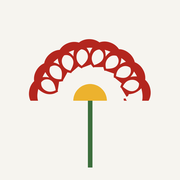
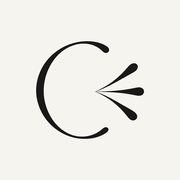
Give `choir` Fía's C mark and AC's Log in / I'm new doors
Icon and in-app mark from her C-with-rays sketch; signed-out room opens on the
curtain buttons; post links are underlined in the accent color.

Changed region(s): [[0.1389, 0.1944, 0.8611, 0.9444]]

diff --git a/apple/choir/Sources/RoomView.swift b/apple/choir/Sources/RoomView.swift
@@ -4,11 +4,14 @@ struct RoomView: View {
     @EnvironmentObject var account: Account
     @EnvironmentObject var room: Room
     @State private var sheet: Sheet?
-    enum Sheet: String, Identifiable { case signIn, compose, account; var id: String { rawValue } }
+    enum Sheet: String, Identifiable { case login, new, compose, account; var id: String { rawValue } }
 
     var body: some View {
         NavigationStack {
             List {
+                if !account.signedIn {
+                    Entry { door in sheet = door == .login ? .login : .new }.listRowSeparator(.hidden)
+                }
                 if let error = room.error {
                     Text(error).foregroundStyle(.secondary).font(.footnote)
                 }
@@ -28,17 +31,20 @@ struct RoomView: View {
             .safeAreaInset(edge: .top, spacing: 0) { TagBar(selected: room.tag, tags: room.tags, onPick: pick) }
             .refreshable { await room.load() }
             .toolbar {
-                ToolbarItem(placement: .topBarLeading) {
-                    Button(account.signedIn ? (account.handle ?? "you") : "Sign in") { sheet = account.signedIn ? .account : .signIn }
-                }
-                ToolbarItem(placement: .topBarTrailing) {
-                    Button { sheet = account.handle == nil ? (account.signedIn ? .account : .signIn) : .compose } label: { Image(systemName: "square.and.pencil") }
-                        .accessibilityLabel("New post")
+                if account.signedIn {
+                    ToolbarItem(placement: .topBarLeading) {
+                        Button(account.handle ?? "you") { sheet = .account }
+                    }
+                    ToolbarItem(placement: .topBarTrailing) {
+                        Button { sheet = account.handle == nil ? .account : .compose } label: { Image(systemName: "square.and.pencil") }
+                            .accessibilityLabel("New post")
+                    }
                 }
             }
             .sheet(item: $sheet) { s in
                 switch s {
-                case .signIn: SignInView()
+                case .login: SignInView(door: .login)
+                case .new: SignInView(door: .new)
                 case .compose: ComposeView(onPosted: { Task { await room.load() } })
                 case .account: AccountView()
                 }

diff --git a/apple/choir/Sources/SignInView.swift b/apple/choir/Sources/SignInView.swift
@@ -1,6 +1,8 @@
 import SwiftUI
 
 struct SignInView: View {
+    enum Door { case login, new }
+    var door: Door = .login
     @EnvironmentObject var account: Account
     @Environment(\.dismiss) private var dismiss
     @State private var email = ""
@@ -27,7 +29,9 @@ struct SignInView: View {
                             .onChange(of: code) { _, c in if c.filter(\.isNumber).count == 6 { Task { await verify() } } }
                     }
                 } footer: {
-                    Text(sent ? "We sent six digits to \(email)." : "No password. We email you a six digit code.")
+                    Text(sent ? "We sent six digits to \(email)." : door == .new
+                         ? "Make an account with your email. No password: we send you a six digit code, then you choose your @name."
+                         : "No password. We email you a six digit code.")
                 }
                 if let error { Section { Text(error).foregroundStyle(.red) } }
                 Section {
@@ -37,7 +41,7 @@ struct SignInView: View {
                 }
                 if busy { ProgressView().frame(maxWidth: .infinity) }
             }
-            .navigationTitle("Sign in")
+            .navigationTitle(door == .new ? "I'm new" : "Log in")
             .navigationBarTitleDisplayMode(.inline)
             .toolbar { ToolbarItem(placement: .cancellationAction) { Button("Cancel") { dismiss() } } }
             .onAppear { field = .email }
@@ -52,7 +56,7 @@ struct SignInView: View {
     func verify() async {
         guard !busy else { return }
         busy = true; error = nil; defer { busy = false }
-        do { try await account.verify(email: email.trimmingCharacters(in: .whitespaces), code: code.filter(\.isNumber)); dismiss() }
+        do { try await account.verify(email: email.trimmingCharacters(in: .whitespaces), code: code.filter(\.isNumber)); Trail.send(door == .new ? "door:new" : "door:login"); dismiss() }
         catch { self.error = error.localizedDescription; code = "" }
     }
 }

diff --git a/apple/choir/Sources/Entry.swift b/apple/choir/Sources/Entry.swift
@@ -1,0 +1,20 @@
+import SwiftUI
+
+/// The signed-out front: Fía's mark and AC's two doors.
+struct Entry: View {
+    let onDoor: (SignInView.Door) -> Void
+    var body: some View {
+        VStack(spacing: 14) {
+            Image("Mark").renderingMode(.template).resizable().scaledToFit()
+                .frame(height: 64).foregroundStyle(.primary).accessibilityHidden(true)
+            Text("A room for people who work in art.").font(.subheadline).foregroundStyle(.secondary)
+            HStack(spacing: 12) {
+                Button { onDoor(.login) } label: { Text("Log in").font(.title3.bold()) }
+                    .buttonStyle(CurtainAccountButtonStyle())
+                Button { onDoor(.new) } label: { Text("I'm new").font(.title3.bold()) }
+                    .buttonStyle(CurtainAccountButtonStyle(signUp: true))
+            }
+        }
+        .frame(maxWidth: .infinity).padding(.vertical, 18)
+    }
+}

diff --git a/apple/choir/Sources/ThreadView.swift b/apple/choir/Sources/ThreadView.swift
@@ -32,13 +32,13 @@ struct ThreadView: View {
                     Button("Send") { Task { await send() } }
                         .disabled(reply.trimmingCharacters(in: .whitespacesAndNewlines).isEmpty || sending)
                 } else {
-                    Button(account.signedIn ? "Choose your @name to reply" : "Sign in to reply") { signIn = true }
+                    Button(account.signedIn ? "Choose your @name to reply" : "Log in to reply") { signIn = true }
                         .frame(maxWidth: .infinity)
                 }
             }
             .padding(12).background(.bar)
         }
-        .sheet(isPresented: $signIn) { if account.signedIn { AccountView() } else { SignInView() } }
+        .sheet(isPresented: $signIn) { if account.signedIn { AccountView() } else { SignInView(door: .login) } }
     }
 
     func load() { Task { await fetch() } }

diff --git a/apple/choir/Sources/AccountView.swift b/apple/choir/Sources/AccountView.swift
@@ -16,7 +16,7 @@ struct AccountView: View {
                         LabeledContent("Posting as", value: handle)
                     } else {
                         Text("You're signed in but don't have a name yet.")
-                        Link("Choose your @name", destination: URL(string: "https://aesthetic.computer/prompt~handle")!)
+                        Link("Choose your @name", destination: URL(string: "https://aesthetic.computer/handle")!)
                         Button("I chose one") { Task { await account.refreshMe() } }
                     }
                 }

diff --git a/apple/choir/Sources/PostRow.swift b/apple/choir/Sources/PostRow.swift
@@ -65,6 +65,8 @@ struct PostRow: View {
         for m in detector.matches(in: text, range: NSRange(text.startIndex..., in: text)) {
             guard let url = m.url, let r = Range(m.range, in: text), let ar = Range(r, in: out) else { continue }
             out[ar].link = url
+            out[ar].underlineStyle = .single
+            out[ar].foregroundColor = .accentColor
         }
         return out
     }
